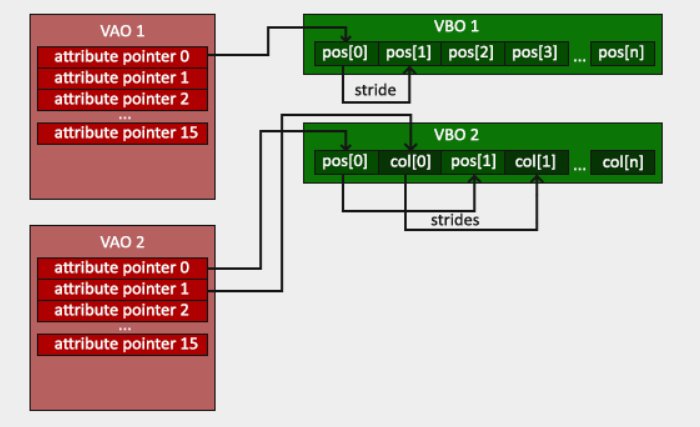
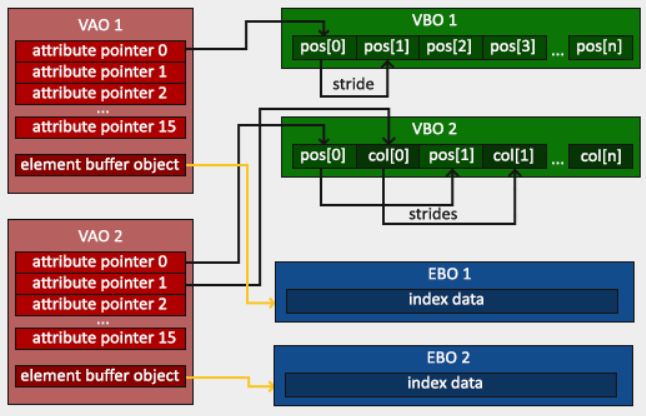
Site updated: 2021-10-21 00:11:24

diff --git a/posts/3GZKBFK/index.html b/posts/3GZKBFK/index.html
@@ -20,7 +20,7 @@
 <meta property="og:image" content="http://www.luhao.wiki/images/NDC.png">
 <meta property="og:image" content="http://www.luhao.wiki/images/vbo_vao.png">
 <meta property="article:published_time" content="2021-10-20T14:51:51.000Z">
-<meta property="article:modified_time" content="2021-10-20T16:00:58.750Z">
+<meta property="article:modified_time" content="2021-10-20T16:11:10.142Z">
 <meta property="article:author" content="Luhao">
 <meta property="article:tag" content="C">
 <meta property="article:tag" content="Graphics">
@@ -380,10 +380,10 @@
                             <!-- <span id="busuanzi_container_site_pv"><span id="busuanzi_value_page_pv"></span>次数</span>     -->
                         <!--  -->
                         <span class="post-count">
-                            | 字数统计630字 
+                            | 字数统计838字 
                           </span>
                           <!-- <span class="post-count"> -->
-                            <!-- | 阅读时长3分钟  -->
+                            <!-- | 阅读时长4分钟  -->
                         <!-- </span> -->
                         
                     </div>
@@ -404,7 +404,7 @@
             
                 <div id="toc" class="toc-article">
                 <strong class="toc-title">Catalogue</strong>
-                    <ol class="toc"><li class="toc-item toc-level-2"><a class="toc-link" href="#Graphics-Pipeline"><span class="toc-number">1.</span> <span class="toc-text">Graphics Pipeline</span></a><ol class="toc-child"><li class="toc-item toc-level-3"><a class="toc-link" href="#1-Vertex-Shader"><span class="toc-number">1.1.</span> <span class="toc-text">1. Vertex Shader</span></a></li><li class="toc-item toc-level-3"><a class="toc-link" href="#2-Geometry-Shader"><span class="toc-number">1.2.</span> <span class="toc-text">2. Geometry Shader</span></a></li><li class="toc-item toc-level-3"><a class="toc-link" href="#3-Rasterization"><span class="toc-number">1.3.</span> <span class="toc-text">3. Rasterization</span></a></li><li class="toc-item toc-level-3"><a class="toc-link" href="#4-Pixel-Shader-Fragment-Sahder"><span class="toc-number">1.4.</span> <span class="toc-text">4. Pixel Shader (Fragment Sahder)</span></a></li><li class="toc-item toc-level-3"><a class="toc-link" href="#5-Alpha-test-and-Blending"><span class="toc-number">1.5.</span> <span class="toc-text">5. Alpha test and Blending</span></a></li></ol></li><li class="toc-item toc-level-2"><a class="toc-link" href="#Pratice-%E7%AC%AC%E4%B8%80%E4%B8%AAShader"><span class="toc-number">2.</span> <span class="toc-text">Pratice: 第一个Shader</span></a><ol class="toc-child"><li class="toc-item toc-level-3"><a class="toc-link" href="#Vertex-data"><span class="toc-number">2.1.</span> <span class="toc-text">Vertex data</span></a></li><li class="toc-item toc-level-3"><a class="toc-link" href="#Vertex-Shader"><span class="toc-number">2.2.</span> <span class="toc-text">Vertex Shader</span></a></li><li class="toc-item toc-level-3"><a class="toc-link" href="#Compile-Vertex-Shader-run-time"><span class="toc-number">2.3.</span> <span class="toc-text">Compile Vertex Shader (run-time)</span></a></li><li class="toc-item toc-level-3"><a class="toc-link" href="#Pixel-Shader"><span class="toc-number">2.4.</span> <span class="toc-text">Pixel Shader</span></a></li><li class="toc-item toc-level-3"><a class="toc-link" href="#Link-and-Combine"><span class="toc-number">2.5.</span> <span class="toc-text">Link and Combine</span></a></li></ol></li><li class="toc-item toc-level-2"><a class="toc-link" href="#%E9%97%AE%E9%A2%98%E6%B1%87%E6%80%BB"><span class="toc-number">3.</span> <span class="toc-text">问题汇总</span></a><ol class="toc-child"><li class="toc-item toc-level-3"><a class="toc-link" href="#1-OpenGL%E7%9A%84VAO%E3%80%81VBP%E5%8C%BA%E5%88%AB"><span class="toc-number">3.1.</span> <span class="toc-text">1. OpenGL的VAO、VBP区别?</span></a></li></ol></li><li class="toc-item toc-level-2"><a class="toc-link" href="#%E5%8F%82%E8%80%83%E8%B5%84%E6%96%99"><span class="toc-number">4.</span> <span class="toc-text">参考资料</span></a></li></ol>
+                    <ol class="toc"><li class="toc-item toc-level-2"><a class="toc-link" href="#Graphics-Pipeline"><span class="toc-number">1.</span> <span class="toc-text">Graphics Pipeline</span></a><ol class="toc-child"><li class="toc-item toc-level-3"><a class="toc-link" href="#1-Vertex-Shader"><span class="toc-number">1.1.</span> <span class="toc-text">1. Vertex Shader</span></a></li><li class="toc-item toc-level-3"><a class="toc-link" href="#2-Geometry-Shader"><span class="toc-number">1.2.</span> <span class="toc-text">2. Geometry Shader</span></a></li><li class="toc-item toc-level-3"><a class="toc-link" href="#3-Rasterization"><span class="toc-number">1.3.</span> <span class="toc-text">3. Rasterization</span></a></li><li class="toc-item toc-level-3"><a class="toc-link" href="#4-Pixel-Shader-Fragment-Sahder"><span class="toc-number">1.4.</span> <span class="toc-text">4. Pixel Shader (Fragment Sahder)</span></a></li><li class="toc-item toc-level-3"><a class="toc-link" href="#5-Alpha-test-and-Blending"><span class="toc-number">1.5.</span> <span class="toc-text">5. Alpha test and Blending</span></a></li></ol></li><li class="toc-item toc-level-2"><a class="toc-link" href="#Pratice-%E7%AC%AC%E4%B8%80%E4%B8%AAShader"><span class="toc-number">2.</span> <span class="toc-text">Pratice: 第一个Shader</span></a><ol class="toc-child"><li class="toc-item toc-level-3"><a class="toc-link" href="#Vertex-data"><span class="toc-number">2.1.</span> <span class="toc-text">Vertex data</span></a></li><li class="toc-item toc-level-3"><a class="toc-link" href="#Vertex-Shader"><span class="toc-number">2.2.</span> <span class="toc-text">Vertex Shader</span></a></li><li class="toc-item toc-level-3"><a class="toc-link" href="#Compile-Vertex-Shader-run-time"><span class="toc-number">2.3.</span> <span class="toc-text">Compile Vertex Shader (run-time)</span></a></li><li class="toc-item toc-level-3"><a class="toc-link" href="#Pixel-Shader"><span class="toc-number">2.4.</span> <span class="toc-text">Pixel Shader</span></a></li><li class="toc-item toc-level-3"><a class="toc-link" href="#Link-and-Combine"><span class="toc-number">2.5.</span> <span class="toc-text">Link and Combine</span></a></li><li class="toc-item toc-level-3"><a class="toc-link" href="#EBO-element-buffer-objects"><span class="toc-number">2.6.</span> <span class="toc-text">EBO: element buffer objects</span></a></li></ol></li><li class="toc-item toc-level-2"><a class="toc-link" href="#%E9%97%AE%E9%A2%98%E6%B1%87%E6%80%BB"><span class="toc-number">3.</span> <span class="toc-text">问题汇总</span></a><ol class="toc-child"><li class="toc-item toc-level-3"><a class="toc-link" href="#1-OpenGL%E7%9A%84VAO%E3%80%81VBO%E3%80%81EBO%E5%8C%BA%E5%88%AB"><span class="toc-number">3.1.</span> <span class="toc-text">1. OpenGL的VAO、VBO、EBO区别?</span></a></li></ol></li><li class="toc-item toc-level-2"><a class="toc-link" href="#%E5%8F%82%E8%80%83%E8%B5%84%E6%96%99"><span class="toc-number">4.</span> <span class="toc-text">参考资料</span></a></li></ol>
                 </div>
             
         
@@ -537,9 +537,26 @@
 <li>渲染线程中开始绘制: glUserProgram()</li>
 </ul>
 <figure class="highlight c"><table><tbody><tr><td class="gutter"><pre><span class="line">1</span><br><span class="line">2</span><br><span class="line">3</span><br><span class="line">4</span><br><span class="line">5</span><br></pre></td><td class="code"><pre><span class="line">glUseProgram(shaderProgram);</span><br><span class="line"></span><br><span class="line"><span class="comment">// 记得回收</span></span><br><span class="line">glDeleteShader(vertexShader);</span><br><span class="line">glDeleteShader(fragmentShader);  </span><br></pre></td></tr></tbody></table></figure>
+<ul>
+<li><font color="#ef6d3b"><strong>到这里我们通过vs+ps实现了一个三角形的绘制!</strong></font></li>
+</ul>
+<h3 id="EBO-element-buffer-objects">EBO: element buffer objects</h3>
+<ul>
+<li>假设我们需要画一个正方形, 那么需要两个三角形，即如下6个点:</li>
+</ul>
+<figure class="highlight c"><table><tbody><tr><td class="gutter"><pre><span class="line">1</span><br><span class="line">2</span><br><span class="line">3</span><br><span class="line">4</span><br><span class="line">5</span><br><span class="line">6</span><br><span class="line">7</span><br><span class="line">8</span><br><span class="line">9</span><br><span class="line">10</span><br></pre></td><td class="code"><pre><span class="line"><span class="keyword">float</span> vertices[] = {</span><br><span class="line">    <span class="comment">// first triangle</span></span><br><span class="line">     <span class="number">0.5f</span>,  <span class="number">0.5f</span>, <span class="number">0.0f</span>,  <span class="comment">// top right</span></span><br><span class="line">     <span class="number">0.5f</span>, <span class="number">-0.5f</span>, <span class="number">0.0f</span>,  <span class="comment">// bottom right</span></span><br><span class="line">    <span class="number">-0.5f</span>,  <span class="number">0.5f</span>, <span class="number">0.0f</span>,  <span class="comment">// top left </span></span><br><span class="line">    <span class="comment">// second triangle</span></span><br><span class="line">     <span class="number">0.5f</span>, <span class="number">-0.5f</span>, <span class="number">0.0f</span>,  <span class="comment">// bottom right</span></span><br><span class="line">    <span class="number">-0.5f</span>, <span class="number">-0.5f</span>, <span class="number">0.0f</span>,  <span class="comment">// bottom left</span></span><br><span class="line">    <span class="number">-0.5f</span>,  <span class="number">0.5f</span>, <span class="number">0.0f</span>   <span class="comment">// top left</span></span><br><span class="line">}; </span><br></pre></td></tr></tbody></table></figure>
+<ul>
+<li><font color="#ef6d3b"><strong>是不是很浪费?</strong></font>
+<ul>
+<li>因为其中两个顶点可以复用，所以其实4个Vertex就够啦！</li>
+<li>尝试用vertex + indices，用4个vertex画出一个正方形!</li>
+</ul>
+</li>
+</ul>
+<figure class="highlight c"><table><tbody><tr><td class="gutter"><pre><span class="line">1</span><br><span class="line">2</span><br><span class="line">3</span><br><span class="line">4</span><br><span class="line">5</span><br><span class="line">6</span><br><span class="line">7</span><br><span class="line">8</span><br><span class="line">9</span><br><span class="line">10</span><br><span class="line">11</span><br><span class="line">12</span><br><span class="line">13</span><br></pre></td><td class="code"><pre><span class="line"><span class="keyword">float</span> vertices[] = {</span><br><span class="line">     <span class="number">0.5f</span>,  <span class="number">0.5f</span>, <span class="number">0.0f</span>,  <span class="comment">// top right</span></span><br><span class="line">     <span class="number">0.5f</span>, <span class="number">-0.5f</span>, <span class="number">0.0f</span>,  <span class="comment">// bottom right</span></span><br><span class="line">    <span class="number">-0.5f</span>, <span class="number">-0.5f</span>, <span class="number">0.0f</span>,  <span class="comment">// bottom left</span></span><br><span class="line">    <span class="number">-0.5f</span>,  <span class="number">0.5f</span>, <span class="number">0.0f</span>   <span class="comment">// top left </span></span><br><span class="line">};</span><br><span class="line"><span class="keyword">unsigned</span> <span class="keyword">int</span> indices[] = {  <span class="comment">// note that we start from 0!</span></span><br><span class="line">    <span class="number">0</span>, <span class="number">1</span>, <span class="number">3</span>,   <span class="comment">// first triangle</span></span><br><span class="line">    <span class="number">1</span>, <span class="number">2</span>, <span class="number">3</span>    <span class="comment">// second triangle</span></span><br><span class="line">};</span><br><span class="line"></span><br><span class="line"><span class="keyword">unsigned</span> <span class="keyword">int</span> EBO;</span><br><span class="line">glGenBuffers(<span class="number">1</span>, &amp;EBO);</span><br></pre></td></tr></tbody></table></figure>
 <hr>
 <h2 id="问题汇总">问题汇总</h2>
-<h3 id="1-OpenGL的VAO、VBP区别">1. OpenGL的VAO、VBP区别?</h3>
+<h3 id="1-OpenGL的VAO、VBO、EBO区别">1. OpenGL的VAO、VBO、EBO区别?</h3>
 <ul>
 <li>VBO: 存储大量顶点信息，给Vertex Shader用</li>
 <li>VAO: 告诉GPU如何使用VBO，使用哪个VBO</li>

diff --git a/posts/326SNS0/index.html b/posts/326SNS0/index.html
@@ -20,7 +20,7 @@
 <meta property="og:image" content="https://github.githubassets.com/images/icons/emoji/unicode/274c.png?v8">
 <meta property="og:image" content="https://github.githubassets.com/images/icons/emoji/unicode/274c.png?v8">
 <meta property="article:published_time" content="2021-10-10T08:06:11.000Z">
-<meta property="article:modified_time" content="2021-10-20T15:58:55.300Z">
+<meta property="article:modified_time" content="2021-10-20T16:10:19.610Z">
 <meta property="article:author" content="Luhao">
 <meta property="article:tag" content="C">
 <meta name="twitter:card" content="summary">
@@ -378,7 +378,7 @@
                             <!-- <span id="busuanzi_container_site_pv"><span id="busuanzi_value_page_pv"></span>次数</span>     -->
                         <!--  -->
                         <span class="post-count">
-                            | 字数统计396字 
+                            | 字数统计400字 
                           </span>
                           <!-- <span class="post-count"> -->
                             <!-- | 阅读时长1分钟  -->
@@ -549,6 +549,12 @@
 <tr>
 <td style="text-align:center">VAO</td>
 <td style="text-align:center">vertex array object</td>
+<td style="text-align:center"></td>
+<td style="text-align:left"></td>
+</tr>
+<tr>
+<td style="text-align:center">EBO</td>
+<td style="text-align:center">element buffer objects</td>
 <td style="text-align:center"></td>
 <td style="text-align:left"></td>
 </tr>

diff --git a/index.html b/index.html
@@ -372,10 +372,10 @@
                             <!-- <span id="busuanzi_container_site_pv"><span id="busuanzi_value_page_pv"></span>次数</span>     -->
                         <!--  -->
                         <span class="post-count">
-                            | 字数统计630字 
+                            | 字数统计838字 
                           </span>
                           <!-- <span class="post-count"> -->
-                            <!-- | 阅读时长3分钟  -->
+                            <!-- | 阅读时长4分钟  -->
                         <!-- </span> -->
                         
                     </div>
@@ -1172,7 +1172,7 @@
                             <!-- <span id="busuanzi_container_site_pv"><span id="busuanzi_value_page_pv"></span>次数</span>     -->
                         <!--  -->
                         <span class="post-count">
-                            | 字数统计396字 
+                            | 字数统计400字 
                           </span>
                           <!-- <span class="post-count"> -->
                             <!-- | 阅读时长1分钟  -->
